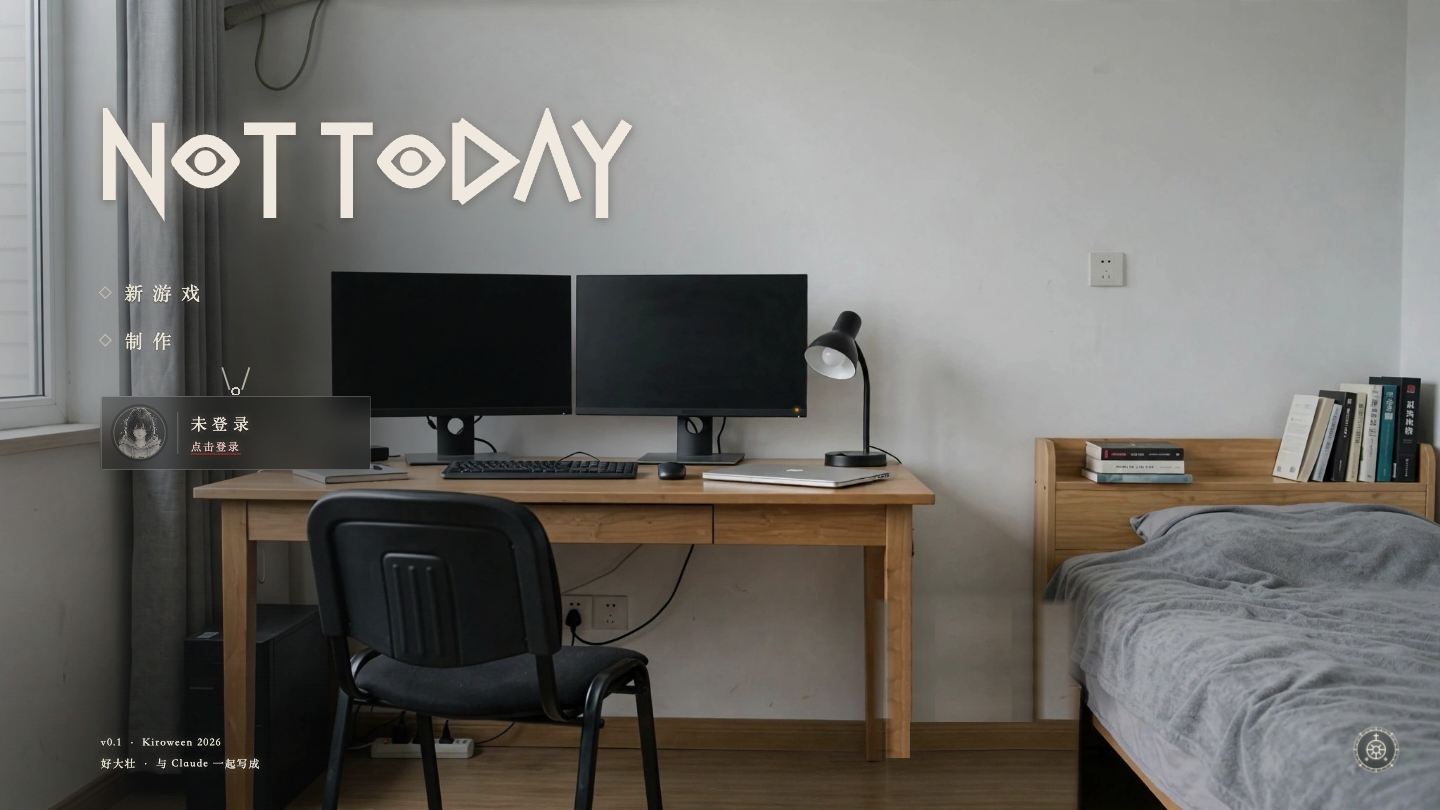
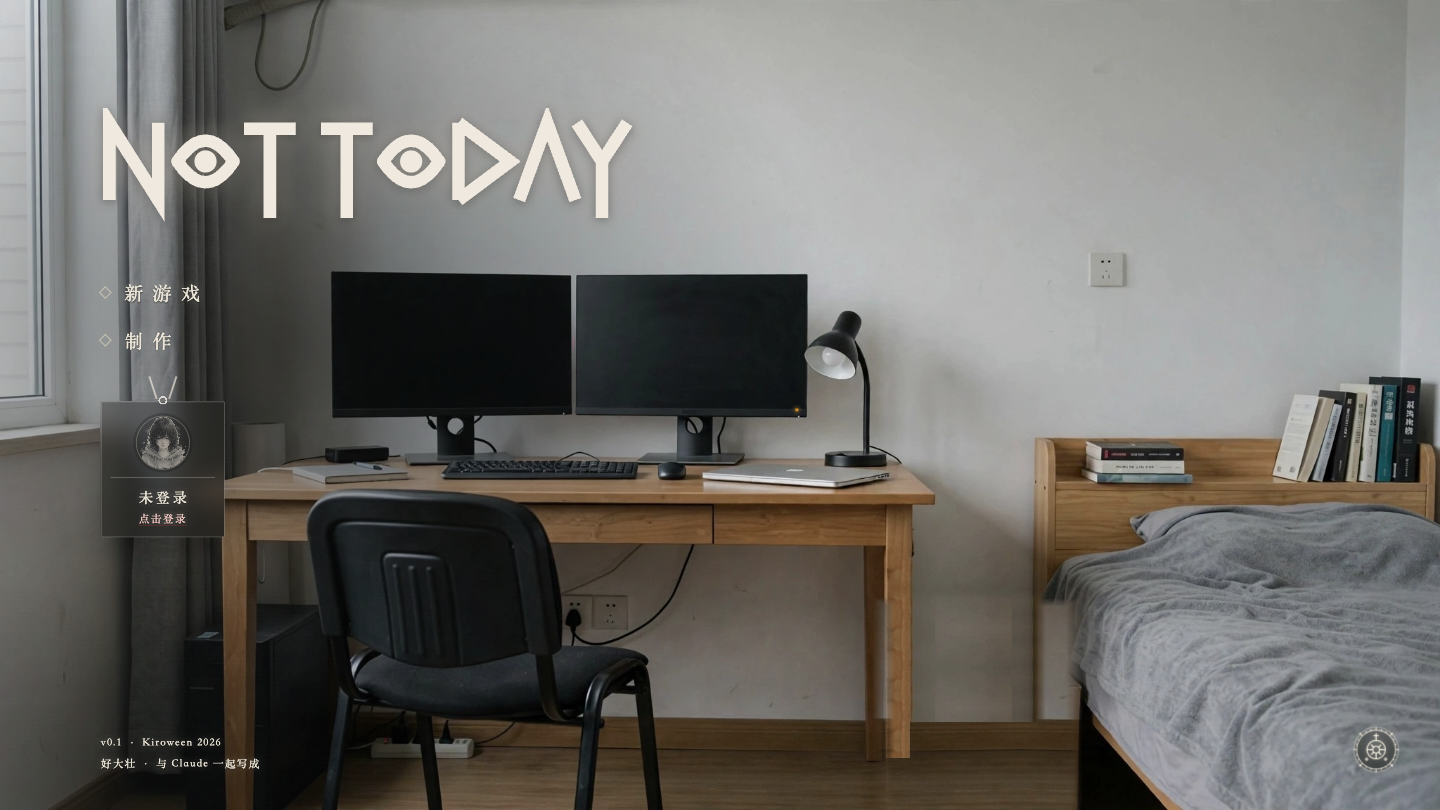
Title: the identity badge hangs upright, about as wide as the menu's words
Author 2026-11-25 (#89): face on top, the name under it (cut with … when long), the company
or 点击登录 last; 138 px wide.

Changed region(s): [[0.0625, 0.463, 0.1875, 0.6481], [0.1875, 0.4938, 0.2812, 0.5864], [0.1562, 0.463, 0.1875, 0.4938]]

diff --git a/src/ui/title/title.css b/src/ui/title/title.css
@@ -302,3 +302,11 @@
 .title-page .title-pick .pick-title,.title-page .title-pick .pick-label{color:var(--gm-bone2)}
 .title-page .title-pick .arrow{color:var(--gm-bone);border-color:var(--gm-hair2)}
 .title-auth .row{border:0}
+/* author 2026-11-25 (#89): the badge hangs upright, about as wide as the words above it — the face
+   on top, the name under it (a long one is cut with …), the company or 点击登录 last */
+.title-menu .title-badge{flex-direction:column;align-items:center;gap:9px;width:138px;margin-top:40px;padding:16px 10px 12px;text-align:center}
+.title-badge .face{flex:0 0 auto;width:58px;height:58px}
+.title-badge .who{width:100%;align-items:center;padding:10px 0 0;border-left:0;border-top:1px solid var(--gm-hair2)}
+.title-badge .name{max-width:100%;font-size:16px;letter-spacing:.18em;text-indent:.18em}
+.title-badge .co{max-width:100%;overflow:hidden;text-overflow:ellipsis;white-space:nowrap;letter-spacing:.12em}
+.title-badge .lanyard{top:-26px}
